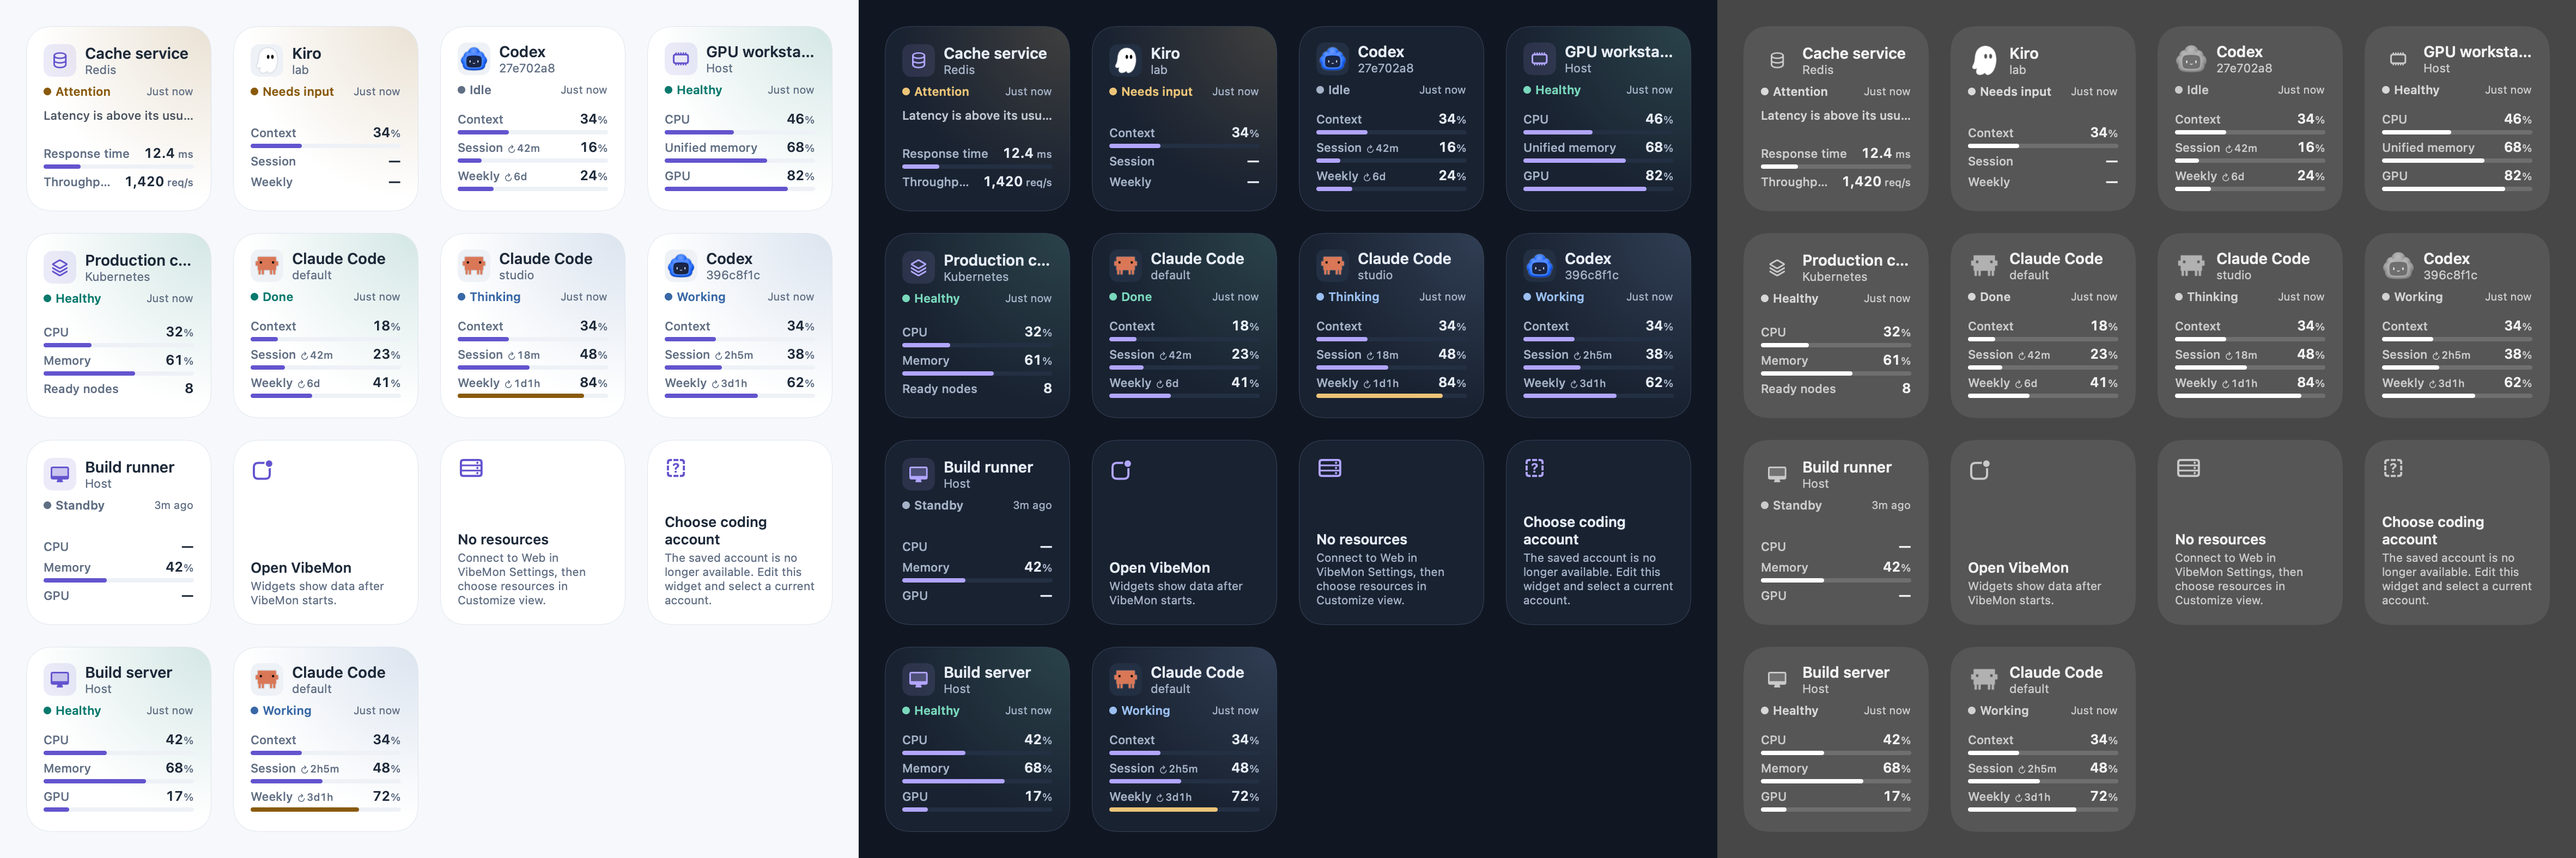
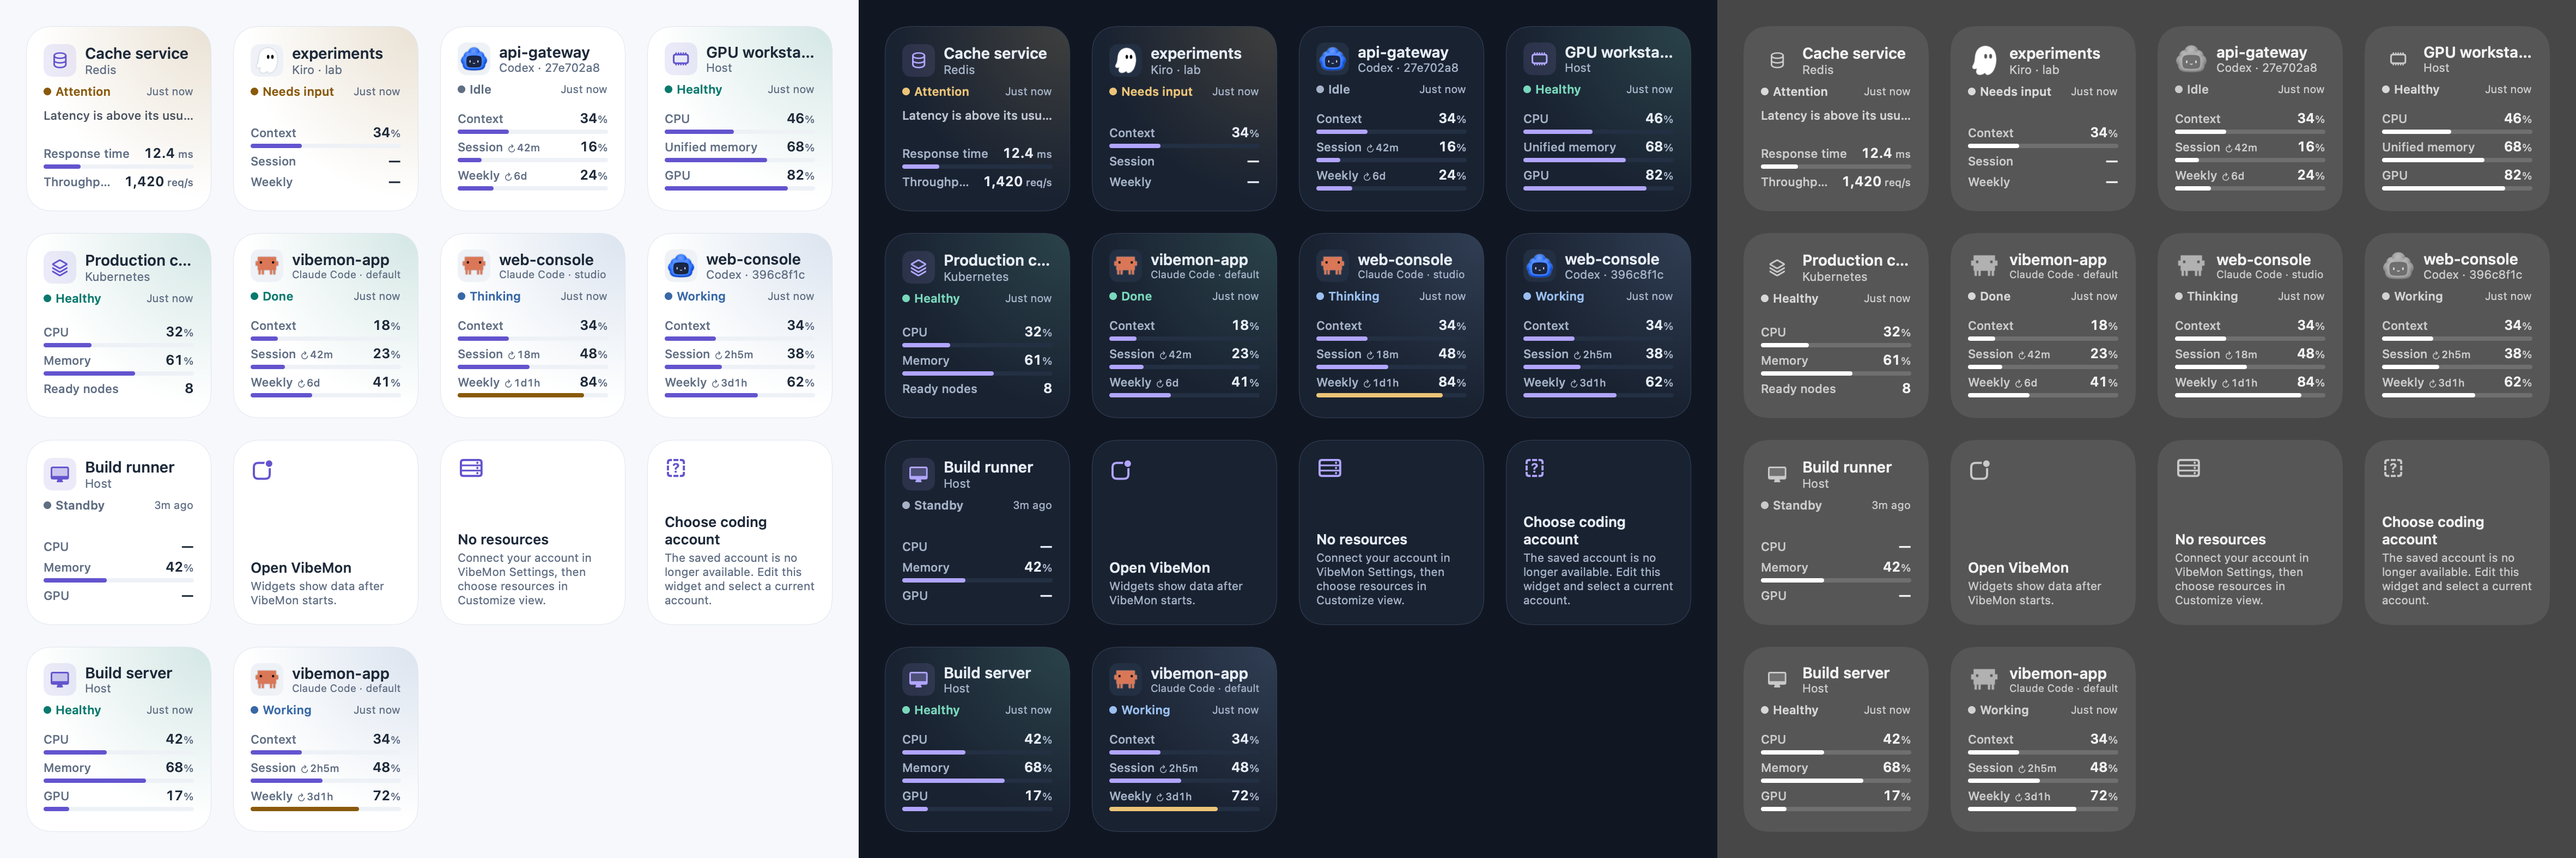
fix: Mac 위젯의 프로젝트·계정 표시 통일 (3.17.1) (#136)
* fix: show active projects and account identities in Mac widgets

* chore: prepare release 3.17.1

diff --git a/native/macos/Shared/WidgetViews.swift b/native/macos/Shared/WidgetViews.swift
@@ -93,7 +93,7 @@ private struct ItemView: View {
 
     var body: some View {
         VStack(alignment: .leading, spacing: 6) {
-            Header(item: item)
+            Header(item: item, title: status.project ?? item.title)
             StatusLine(status: status, age: Age.text(since: item.observedAt, now: date))
             // A resource message explains its state, so it takes the place of one metric.
             let message = item.kind == .resource ? item.message : nil
@@ -118,6 +118,7 @@ private struct ItemView: View {
 /// The icon, the title, and the subtitle.
 private struct Header: View {
     let item: FeedItem
+    let title: String
 
     var body: some View {
         HStack(spacing: 8) {
@@ -126,7 +127,7 @@ private struct Header: View {
             case .resource: ResourceIcon(symbol: item.symbol)
             }
             VStack(alignment: .leading, spacing: 0) {
-                Text(item.title)
+                Text(title)
                     .font(.system(size: 14, weight: .semibold))
                     .foregroundStyle(Palette.foreground)
                     .lineLimit(1)
@@ -134,6 +135,7 @@ private struct Header: View {
                     .font(.system(size: 11))
                     .foregroundStyle(Palette.muted)
                     .lineLimit(1)
+                    .minimumScaleFactor(0.8)
             }
         }
     }

diff --git a/tests/widget-publisher.test.js b/tests/widget-publisher.test.js
@@ -139,6 +139,24 @@ describe('WidgetPublisher', () => {
     expect(reloads).toEqual([T0]);
   });
 
+  test('a predicted project change keeps its timeline without an extra reload', () => {
+    const { publisher, reloads, setItems, advance } = setup();
+    const aging = [
+      { at: iso(T0), state: 'notification', label: 'Needs input', tone: 'warning', project: 'web' },
+      { at: iso(T0 + 120000), state: 'working', label: 'Working', tone: 'active', project: 'api' }
+    ];
+    const account = (title, timeline) => ({ ...item({ id: 'agent:codex:a', timeline }), kind: 'agent', title, subtitle: 'Codex · a' });
+    setItems([account('web', aging)]);
+    publisher.publish();
+    advance(120000);
+    setItems([account('api', [aging[1]])]);
+    publisher.publish();
+    expect(reloads).toEqual([T0]);
+    setItems([account('renamed', [{ ...aging[1], project: 'renamed' }])]);
+    publisher.publish();
+    expect(reloads).toEqual([T0, T0 + 120000]);
+  });
+
   test('a timer transition keeps the predicted phase start; a new report starts a new phase', () => {
     const { publisher, inputs, setStates, advance, at } = setup();
     const account = { provider: 'claude', id: 'default', displayName: 'claude default' };

diff --git a/native/macos/Shared/Samples.swift b/native/macos/Shared/Samples.swift
@@ -18,7 +18,7 @@ enum Samples {
              "timeline":[{"at":"\(at)","state":"ok","label":"\(text("Healthy"))","tone":"good"}],"link":"vibemon://dashboard/resources"}
             """
         case .agent: """
-            {"id":"sample:agent","kind":"agent","title":"Claude Code","subtitle":"default","artwork":"clawd.png","observedAt":"\(at)",
+            {"id":"sample:agent","kind":"agent","title":"vibemon-app","subtitle":"Claude Code · default","selectionTitle":"Claude Code · default","selectionSubtitle":"vibemon-app","artwork":"clawd.png","observedAt":"\(at)",
              "metrics":[{"key":"context","label":"\(text("Context"))","value":"34","unit":"%","fraction":0.34,"tone":"normal"},
                         {"key":"session","label":"\(text("Session"))","value":"48","unit":"%","fraction":0.48,"tone":"normal","resetsAt":"\(session)"},
                         {"key":"week","label":"\(text("Weekly"))","value":"72","unit":"%","fraction":0.72,"tone":"warning","resetsAt":"\(week)"}],

diff --git a/native/macos/Shared/Feed.swift b/native/macos/Shared/Feed.swift
@@ -86,6 +86,16 @@ struct FeedStatus: Decodable, Sendable, Equatable {
     let state: String
     let label: String
     let tone: Tone
+    /// The project responsible for this state. Older feeds use the item title.
+    let project: String?
+
+    init(at: Date, state: String, label: String, tone: Tone, project: String? = nil) {
+        self.at = at
+        self.state = state
+        self.label = label
+        self.tone = tone
+        self.project = project
+    }
 }
 
 struct FeedMetric: Decodable, Sendable, Identifiable {

diff --git a/docs/widgets.md b/docs/widgets.md
@@ -26,7 +26,7 @@ A new widget leaves its selection empty and shows the first item of its kind in 
 
 ## What the widget shows
 
-- **Header**: the icon, the name, and below the name the state in its color with the age of the last report, for example `3m`. The widget picker shows the account or resource type. State rules remain the same as the Dashboard: a resource goes on **Standby** 120 seconds after its last receipt, and a coding agent ages to **Idle** and then **Standby** when its hooks stop reporting.
+- **Header**: a coding agent shows the project first, then the provider and short account ID, for example `dockpad` above `Codex · 27e702a8`, as on the Dashboard and iPhone. The title follows the project responsible for the current state, including when an older input request ages out. A resource shows its name and type. Below the header, the widget shows the state in its color with the report age, for example `3m`. A resource goes on **Standby** 120 seconds after its last receipt, and a coding agent ages to **Idle** and then **Standby** when its hooks stop reporting.
 - **Standby**: the item is not connected or not active. It uses the neutral color and the same layout as other states, and the values are the last ones received. After VibeMon quits, every widget shows **Standby** because nothing updates its data. A widget without a choice keeps the item it showed before. Standby does not need attention.
 - **Detail line**: the collector's message for a resource. A coding agent has no detail line.
 - **Metrics**: the first three metrics selected in **Customize view** for a resource. A coding agent shows **Context**, **Session**, and **Weekly**. A plan usage bar uses the warning color from 70% and the danger color from 90%. Beside **Session** and **Weekly**, `↻ 2h5m` is the time until that limit resets: `now`, minutes (`42m`), hours and minutes (`2h5m`), or days and hours (`3d1h`). It counts down without new data and is absent when the hook reports no reset time. `—` means no measurement was reported.
